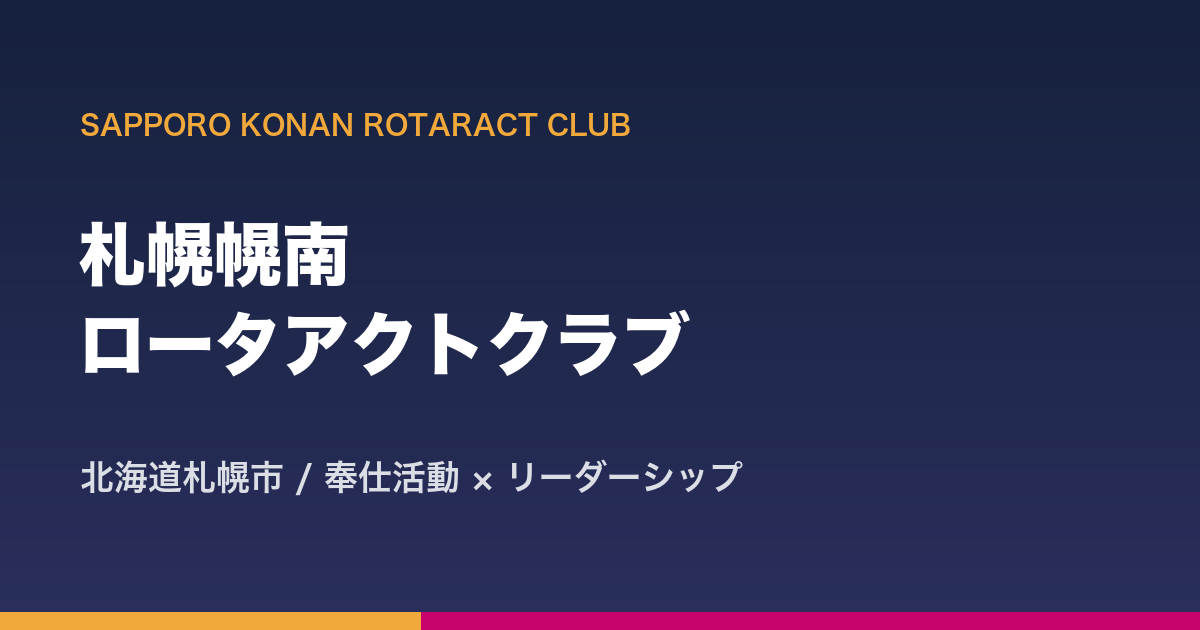
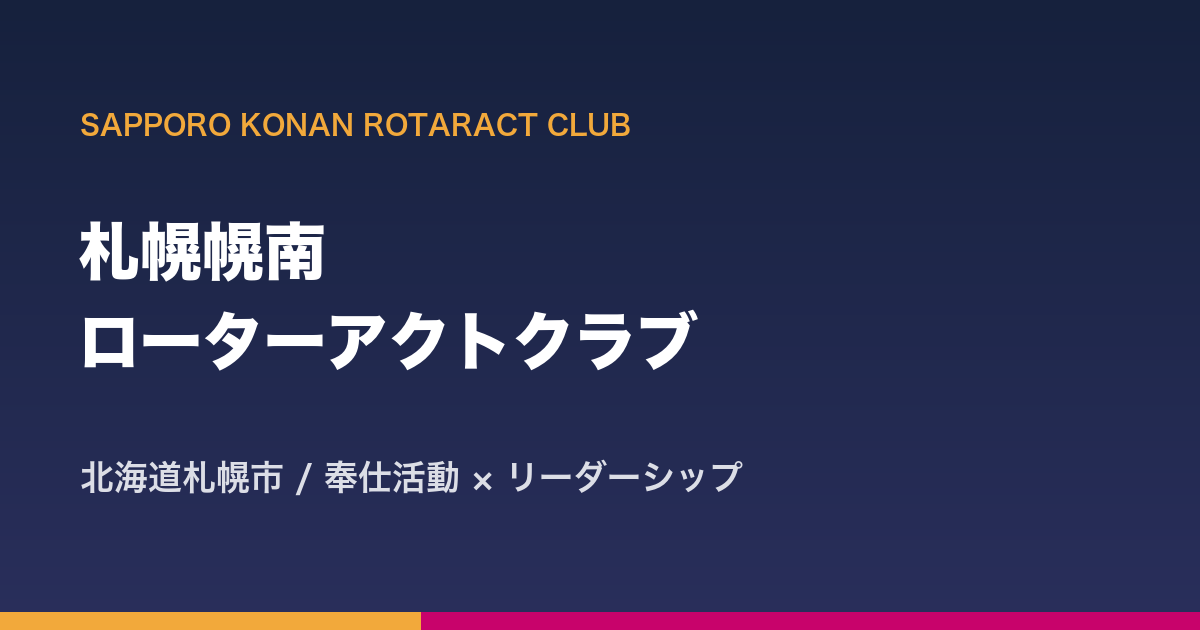
Rename ロータアクト to ローターアクト throughout
Corrects the katakana spelling of "Rotaract" (adds the missing long
vowel mark) across site copy, config, templates, README, and
regenerates the OGP share image to match.

Changed region(s): [[0.0617, 0.4825, 0.5858, 0.6032], [0.0617, 0.3317, 0.3083, 0.4524]]

diff --git a/_layouts/home.html b/_layouts/home.html
@@ -44,10 +44,10 @@ layout: default
 
 <section class="section section-alt">
   <div class="container container-narrow section-cta">
-    <h2>ロータアクトに興味がある方へ</h2>
+    <h2>ローターアクトに興味がある方へ</h2>
     <p>
-      札幌幌南ロータアクトクラブでは、奉仕活動やリーダーシップ開発、
-      国内外のロータリー・ロータアクトメンバーとの交流を通じて成長できる場を提供しています。
+      札幌幌南ローターアクトクラブでは、奉仕活動やリーダーシップ開発、
+      国内外のロータリー・ローターアクトメンバーとの交流を通じて成長できる場を提供しています。
       見学・体験参加も歓迎です。
     </p>
     <a class="btn btn-primary" href="{{ '/contact/' | relative_url }}">お問い合わせはこちら</a>

diff --git a/assets/css/style.scss b/assets/css/style.scss
@@ -1,12 +1,12 @@
 ---
 ---
 /* ==========================================================================
-   札幌幌南ロータアクトクラブ サイト共通スタイル
+   札幌幌南ローターアクトクラブ サイト共通スタイル
    色や余白を変えたい場合は :root の変数を編集してください
    ========================================================================== */
 
 :root {
-  --color-primary: #c8036b;      /* ロータアクト マゼンタ系アクセント */
+  --color-primary: #c8036b;      /* ローターアクト マゼンタ系アクセント */
   --color-primary-dark: #9c0553;
   --color-navy: #16213d;         /* ヘッダー・見出し系 */
   --color-gold: #f2a93b;         /* ロータリー ゴールド(差し色) */

diff --git a/admin/index.html b/admin/index.html
@@ -8,7 +8,7 @@ layout: null
   <meta charset="utf-8" />
   <meta name="viewport" content="width=device-width, initial-scale=1.0" />
   <meta name="robots" content="noindex, nofollow" />
-  <title>管理画面 | 札幌幌南ロータアクトクラブ</title>
+  <title>管理画面 | 札幌幌南ローターアクトクラブ</title>
   <link rel="icon" href="../assets/images/favicon.svg" />
   <style>
     #back-to-site {

diff --git a/about.md b/about.md
@@ -2,19 +2,19 @@
 layout: page
 title: クラブ紹介
 permalink: /about/
-description: 札幌幌南ロータアクトクラブの概要・所属地区・会員数など、クラブについてご紹介します。
+description: 札幌幌南ローターアクトクラブの概要・所属地区・会員数など、クラブについてご紹介します。
 ---
 
-## 札幌幌南ロータアクトクラブとは
+## 札幌幌南ローターアクトクラブとは
 
-ロータアクトクラブは、18歳から30代の若者を対象とした、ロータリークラブが提唱するリーダーシップと奉仕の団体です。
-札幌幌南ロータアクトクラブは、＜スポンサークラブ名を入力＞のスポンサーのもと、北海道札幌市を拠点に活動しています。
+ローターアクトクラブは、18歳から30代の若者を対象とした、ロータリークラブが提唱するリーダーシップと奉仕の団体です。
+札幌幌南ローターアクトクラブは、＜スポンサークラブ名を入力＞のスポンサーのもと、北海道札幌市を拠点に活動しています。
 
 ## クラブ概要
 
 | 項目 | 内容 |
 | --- | --- |
-| クラブ名 | 札幌幌南ロータアクトクラブ |
+| クラブ名 | 札幌幌南ローターアクトクラブ |
 | 所属地区 | 国際ロータリー第2510地区 |
 | 会員数 | 9名(2026現在) |
 

diff --git a/_posts/2026-10-08-official-website-launch.md b/_posts/2026-10-08-official-website-launch.md
@@ -2,7 +2,7 @@
 title: "クラブの公式ウェブサイトを開設しました"
 ---
 
-札幌幌南ロータアクトクラブでは、クラブの活動をより多くの方に知っていただくため、
+札幌幌南ローターアクトクラブでは、クラブの活動をより多くの方に知っていただくため、
 公式ウェブサイトを制作しました。
 
 活動報告や例会・行事予定、入会案内などは、今後こちらのサイトで発信していきます。
@@ -12,5 +12,5 @@ title: "クラブの公式ウェブサイトを開設しました"
 
 - 活動報告: 日々の奉仕活動やイベントの様子をお届けします
 - 例会・行事予定: 例会の開催情報や見学・体験参加の案内を掲載します
-- 入会案内: ロータアクトクラブへの入会を検討されている方向けの情報をまとめています
+- 入会案内: ローターアクトクラブへの入会を検討されている方向けの情報をまとめています
 - お問い合わせ: 見学・入会に関するご質問はお問い合わせフォームからご連絡ください

diff --git a/contact.md b/contact.md
@@ -2,7 +2,7 @@
 layout: page
 title: お問い合わせ
 permalink: /contact/
-description: 札幌幌南ロータアクトクラブへのお問い合わせはこちらから。見学・入会に関するご質問も受け付けています。
+description: 札幌幌南ローターアクトクラブへのお問い合わせはこちらから。見学・入会に関するご質問も受け付けています。
 ---
 
 見学のお申し込み、入会に関するご質問、その他お問い合わせは以下の方法でご連絡ください。

diff --git a/privacy.md b/privacy.md
@@ -4,7 +4,7 @@ title: プライバシーポリシー
 permalink: /privacy/
 ---
 
-札幌幌南ロータアクトクラブ(以下「当クラブ」)は、お問い合わせフォーム等を通じて取得する
+札幌幌南ローターアクトクラブ(以下「当クラブ」)は、お問い合わせフォーム等を通じて取得する
 個人情報を、以下の方針に基づき適切に取り扱います。
 
 ## 取得する情報

diff --git a/events.md b/events.md
@@ -2,7 +2,7 @@
 layout: page
 title: 例会・行事予定
 permalink: /events/
-description: 札幌幌南ロータアクトクラブの例会情報や、見学・体験参加の方法をご案内します。
+description: 札幌幌南ローターアクトクラブの例会情報や、見学・体験参加の方法をご案内します。
 ---
 
 ## 定例例会

diff --git a/activities.md b/activities.md
@@ -2,7 +2,7 @@
 layout: page
 title: 活動報告
 permalink: /activities/
-description: 札幌幌南ロータアクトクラブのこれまでの活動報告を掲載しています。
+description: 札幌幌南ローターアクトクラブのこれまでの活動報告を掲載しています。
 ---
 
 <div class="card-grid">

diff --git a/README.md b/README.md
@@ -1,4 +1,4 @@
-# 札幌幌南ロータアクトクラブ 公式サイト
+# 札幌幌南ローターアクトクラブ 公式サイト
 
 Jekyll + GitHub Pages で構築した、完全無料・複数人編集可能な公式サイトです。
 
